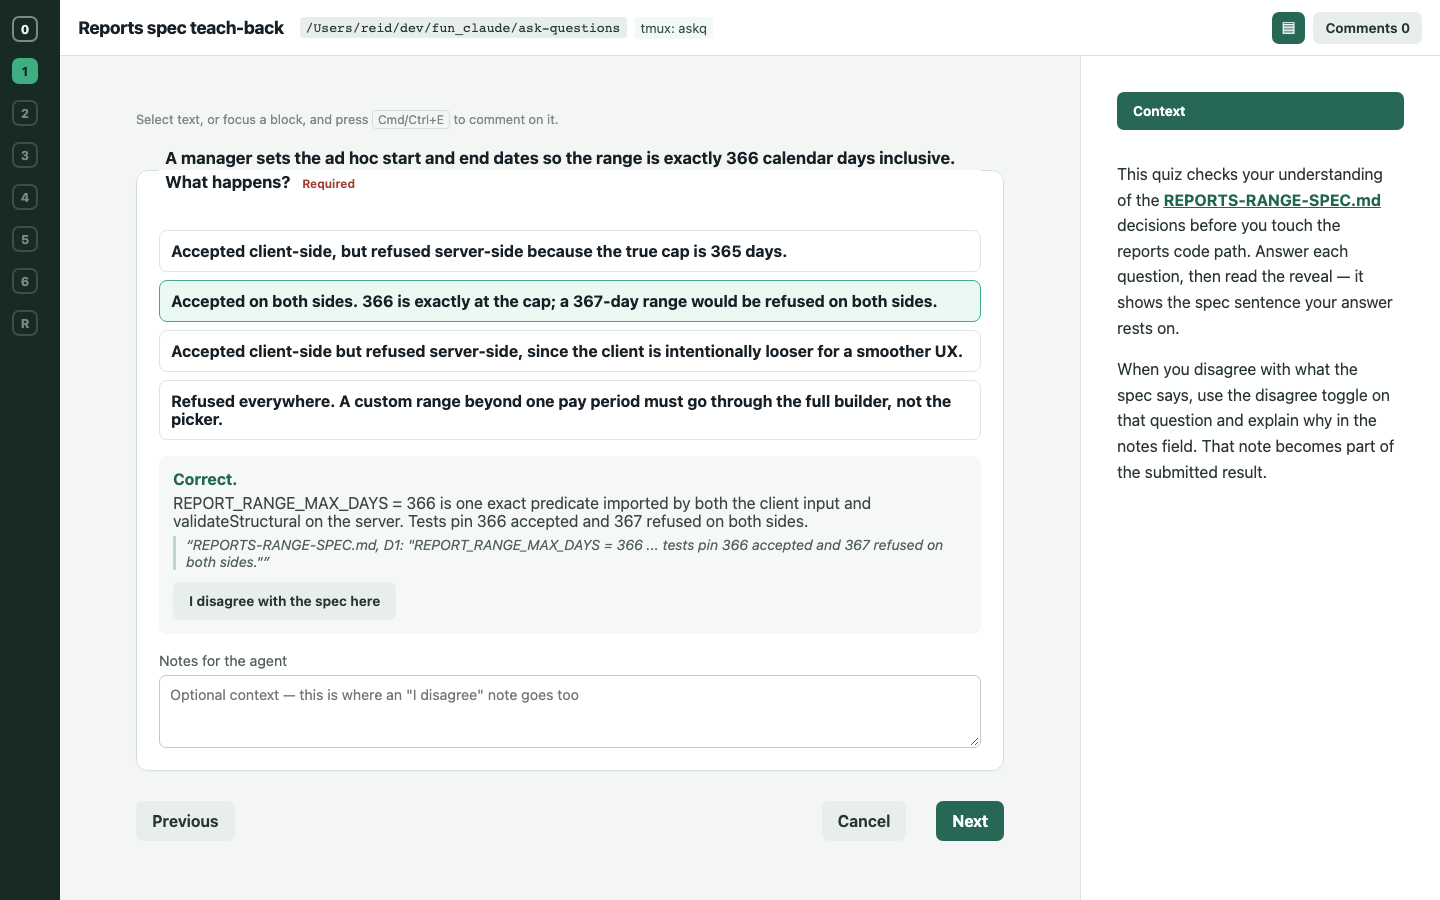
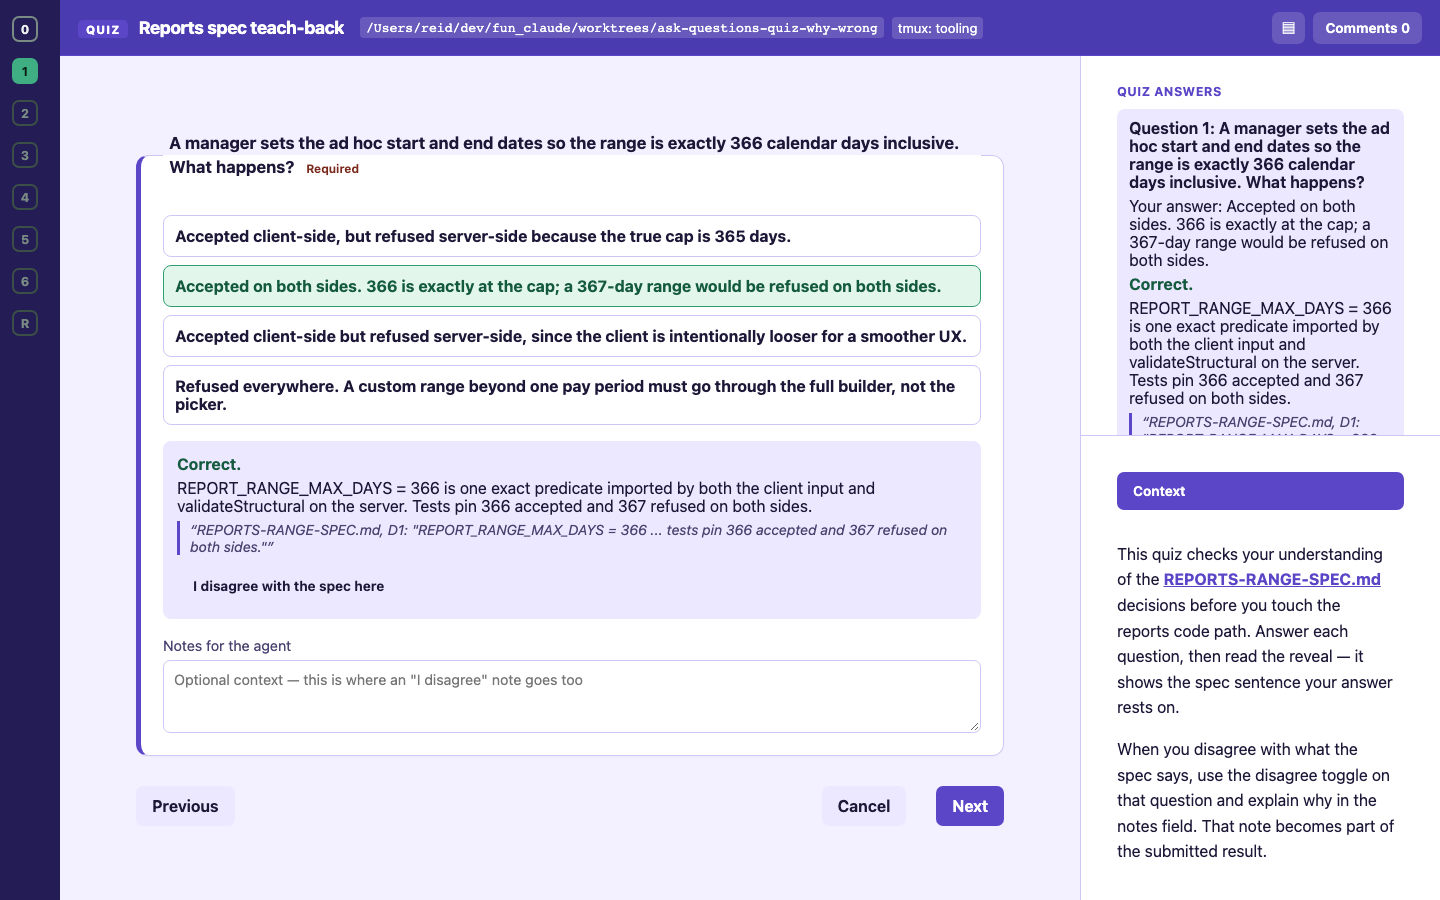
feat(quiz): every wrong option carries whyWrong; wrong picks show it; quiz forms get their own colour scheme (#11)
Each quiz option that is not the answer must now carry "whyWrong" (why this
choice is wrong compared with the right one); the answer option must not.
The validator refuses a quiz without it. After a wrong pick the form shows
that option's whyWrong before the why and cite; the review view and copied
summary list every wrong option's whyWrong for missed or disagreed questions.
A form made only of quiz questions gets a violet scheme with a QUIZ badge,
with a dark variant. Help, README, example and tests updated.

Claude-Session: https://claude.ai/code/session_01Kujo75X1zJefajDjYS5NZF

diff --git a/web/style.css b/web/style.css
@@ -190,6 +190,7 @@ button.primary { background: #276755; color: #fff; }
 .quiz-verdict { margin: 0 0 6px; font-weight: 700; }
 .quiz-verdict.correct { color: #1e6652; }
 .quiz-verdict.incorrect { color: #9d3d2d; }
+.quiz-why-wrong { margin: 6px 0; padding-left: 10px; border-left: 3px solid #d9604a; color: #7a3326; }
 .quiz-why { margin: 6px 0; color: #3a4844; }
 .quiz-cite { margin: 6px 0 0; padding-left: 10px; border-left: 3px solid #b8d8c9; color: #53625d; font-size: .88rem; font-style: italic; }
 .quiz-disagree-toggle { margin-top: 12px; background: #e8eeeb; color: #263630; font-size: .85rem; }
@@ -258,3 +259,68 @@ button.primary { background: #276755; color: #fff; }
 .diagram-source-hidden { display: none; }
 pre[data-diagram-state="failed"]::before { content: "Diagram could not be drawn. Source:"; display: block; margin-bottom: 6px; font: 600 .8rem sans-serif; color: #8a4b00; }
 .message img, .documents-pane img { max-width: 100%; height: auto; border-radius: 4px; }
+
+/* --- Quiz colour scheme --------------------------------------------------- */
+/* Applied by app.js (body.quiz-mode) only when every question is a quiz, so a quiz never looks like
+   a decision form. Light by default; the dark variant follows the system setting. Right (green) and
+   wrong (red) keep their meaning inside the scheme, and the whyWrong text has its own readable colour. */
+body.quiz-mode {
+  --q-bg: #f3f0ff; --q-card: #fff; --q-text: #1d1838; --q-muted: #4a4470; --q-border: #cfc6f5;
+  --q-accent: #5b46c8; --q-accent-text: #fff; --q-band: #4b3bb0; --q-band-text: #fff; --q-rail: #241c55;
+  --q-soft: #ece8ff; --q-reveal: #ece8ff;
+  --q-ok-bg: #e3f6ec; --q-ok-border: #2f9e6e; --q-ok-text: #145a3e;
+  --q-bad-bg: #fde8e4; --q-bad-border: #d9604a; --q-bad-text: #7a2a1d;
+  background: var(--q-bg); color: var(--q-text);
+}
+@media (prefers-color-scheme: dark) {
+  body.quiz-mode {
+    color-scheme: dark;
+    --q-bg: #151228; --q-card: #211c3f; --q-text: #ece9ff; --q-muted: #b9b2e6; --q-border: #3c3470;
+    --q-accent: #8d7bff; --q-accent-text: #120d33; --q-band: #2c2370; --q-band-text: #f1eeff; --q-rail: #0f0c20;
+    --q-soft: #2c2650; --q-reveal: #2c2650;
+    --q-ok-bg: #12372b; --q-ok-border: #4cc79a; --q-ok-text: #bff0dc;
+    --q-bad-bg: #44201c; --q-bad-border: #ff8a76; --q-bad-text: #ffd0c7;
+  }
+}
+body.quiz-mode .rail, body.quiz-mode .rail:hover .rail-items, body.quiz-mode .rail.pinned .rail-items, body.quiz-mode .rail-legend { background: var(--q-rail); }
+body.quiz-mode .app-header { background: var(--q-band); border-bottom-color: var(--q-accent); color: var(--q-band-text); }
+body.quiz-mode .app-title::before { content: "QUIZ"; margin-right: 10px; padding: 3px 8px; border-radius: 5px; background: var(--q-accent); color: var(--q-accent-text); font-size: .72rem; font-weight: 800; letter-spacing: .1em; vertical-align: middle; }
+body.quiz-mode .asker-path, body.quiz-mode .asker-tmux-window, body.quiz-mode .icon-button, body.quiz-mode .annotation-panel-toggle { background: rgb(255 255 255 / 16%); color: var(--q-band-text); }
+body.quiz-mode .question-card, body.quiz-mode .review-card { background: var(--q-card); border-color: var(--q-border); border-left: 5px solid var(--q-accent); }
+body.quiz-mode .eyebrow, body.quiz-mode .review-item h3 { color: var(--q-accent); }
+body.quiz-mode .message, body.quiz-mode .notes-label, body.quiz-mode .review-message, body.quiz-mode .review-label, body.quiz-mode .optional, body.quiz-mode .copy-status { color: var(--q-muted); }
+body.quiz-mode .message a { color: var(--q-accent); }
+body.quiz-mode .message pre, body.quiz-mode .quiz-score, body.quiz-mode .annotation-text { background: var(--q-soft); }
+body.quiz-mode .review-item { border-top-color: var(--q-border); }
+body.quiz-mode textarea { background: var(--q-card); border-color: var(--q-border); color: var(--q-text); }
+body.quiz-mode textarea:focus { border-color: var(--q-accent); outline-color: var(--q-border); }
+body.quiz-mode .quiz-option { background: var(--q-card); border-color: var(--q-border); color: var(--q-text); }
+body.quiz-mode .quiz-option:hover:not(:disabled) { border-color: var(--q-accent); background: var(--q-soft); }
+body.quiz-mode .quiz-option small { color: var(--q-muted); }
+body.quiz-mode .quiz-option.correct { border-color: var(--q-ok-border); background: var(--q-ok-bg); color: var(--q-ok-text); }
+body.quiz-mode .quiz-option.chosen-wrong { border-color: var(--q-bad-border); background: var(--q-bad-bg); color: var(--q-bad-text); }
+body.quiz-mode .quiz-reveal { background: var(--q-reveal); }
+body.quiz-mode .quiz-verdict.correct { color: var(--q-ok-text); }
+body.quiz-mode .quiz-verdict.incorrect { color: var(--q-bad-text); }
+body.quiz-mode .quiz-why-wrong { border-left-color: var(--q-bad-border); background: var(--q-bad-bg); color: var(--q-bad-text); padding: 8px 10px; border-radius: 0 6px 6px 0; }
+body.quiz-mode .quiz-why { color: var(--q-text); }
+body.quiz-mode .quiz-cite { border-left-color: var(--q-accent); color: var(--q-muted); }
+body.quiz-mode button.primary, body.quiz-mode .actions [type="submit"], body.quiz-mode #next-question { background: var(--q-accent); color: var(--q-accent-text); }
+body.quiz-mode button.secondary, body.quiz-mode .quiz-disagree-toggle { background: var(--q-soft); color: var(--q-text); }
+body.quiz-mode .quiz-disagree-toggle.active { background: #d99e2a; color: #2b2007; }
+body.quiz-mode button:focus-visible { outline-color: var(--q-accent); }
+body.quiz-mode .documents-pane { background: var(--q-card); border-left-color: var(--q-border); color: var(--q-text); }
+body.quiz-mode .quiz-log { border-bottom-color: var(--q-border); }
+body.quiz-mode .quiz-log-title { color: var(--q-accent); }
+body.quiz-mode .quiz-log-entry { background: var(--q-soft); }
+body.quiz-mode .quiz-log-heading { color: var(--q-text); }
+body.quiz-mode .quiz-log-answer, body.quiz-mode .document-content { color: var(--q-text); }
+body.quiz-mode .quiz-log-disagree { color: #d99e2a; }
+body.quiz-mode .document-list button { background: var(--q-soft); color: var(--q-text); }
+body.quiz-mode .document-list button.active { background: var(--q-accent); color: var(--q-accent-text); }
+body.quiz-mode .document-content a { color: var(--q-accent); }
+body.quiz-mode .document-content pre { background: var(--q-soft); }
+body.quiz-mode .document-content table { background: none; }
+body.quiz-mode .document-content th, body.quiz-mode .document-content td { border-color: var(--q-border); }
+body.quiz-mode .document-content th { background: var(--q-soft); color: var(--q-text); }
+body.quiz-mode .required { color: var(--q-bad-text); }

diff --git a/web/app.js b/web/app.js
@@ -42,6 +42,9 @@ const quizLogEntries = new Map();
 
 document.title = session.title || 'Questions';
 document.querySelector('#page-title').textContent = session.title || 'Questions';
+// A form made only of quiz questions gets its own colour scheme (violet, with a Quiz badge in
+// the header) so it reads at a glance as a quiz and not as a decision. Mixed forms keep the default.
+if (session.questions.length > 0 && session.questions.every((question) => question.type === 'quiz')) document.body.classList.add('quiz-mode');
 const askerPath = document.querySelector('#asker-path');
 askerPath.textContent = session.askerPath;
 askerPath.title = 'Click to copy';
@@ -134,6 +137,10 @@ function renderQuizReveal(question, reveal, notesTextarea, questionIndex) {
   const verdict = create('p', { className: `quiz-verdict ${state.correct ? 'correct' : 'incorrect'}` });
   verdict.textContent = state.correct ? 'Correct.' : `Not quite — the spec says: ${correctOption?.label ?? question.answer}.`;
   reveal.append(verdict);
+  const chosenOption = question.options.find((option) => option.value === state.value);
+  if (!state.correct && chosenOption?.whyWrong) {
+    reveal.append(create('p', { className: 'quiz-why-wrong', textContent: `Why your choice was wrong: ${chosenOption.whyWrong}` }));
+  }
   if (question.why) reveal.append(create('p', { className: 'quiz-why', textContent: question.why }));
   if (question.cite) reveal.append(create('p', { className: 'quiz-cite', textContent: `“${question.cite}”` }));
   if (question.allowDisagree !== false) {
@@ -338,9 +345,12 @@ function renderQuizScore(answers) {
       const block = create('div', { className: 'quiz-score-block' });
       block.append(create('p', { textContent: question.prompt }));
       block.append(create('p', { textContent: summaryLine }));
+      const wrongOptions = question.options.filter((option) => option.value !== question.answer && option.whyWrong);
+      const wrongLines = wrongOptions.map((option) => `Why "${option.label}" is wrong: ${option.whyWrong}`);
+      wrongLines.forEach((line) => block.append(create('p', { className: 'quiz-why-wrong', textContent: line })));
       if (notes) block.append(create('p', { textContent: `Note: ${notes}` }));
       quizScoreEl.append(block);
-      lines.push(question.prompt, summaryLine);
+      lines.push(question.prompt, summaryLine, ...wrongLines);
       if (notes) lines.push(`Note: ${notes}`);
       lines.push('');
     });
@@ -706,6 +716,7 @@ function recordQuizAnswer(question, questionIndex, state) {
     optionLabel: chosenOption?.label ?? state.value,
     correct: state.correct,
     correctLabel: correctOption?.label ?? question.answer,
+    whyWrong: state.correct ? undefined : chosenOption?.whyWrong,
     why: question.why,
     cite: question.cite,
     disagree: state.disagree,
@@ -736,6 +747,7 @@ function renderQuizLog() {
       className: `quiz-verdict ${entry.correct ? 'correct' : 'incorrect'}`,
       textContent: entry.correct ? 'Correct.' : `Not quite — the spec says: ${entry.correctLabel}.`,
     }));
+    if (entry.whyWrong) item.append(create('p', { className: 'quiz-why-wrong', textContent: `Why your choice was wrong: ${entry.whyWrong}` }));
     if (entry.why) item.append(create('p', { className: 'quiz-why', textContent: entry.why }));
     if (entry.cite) item.append(create('p', { className: 'quiz-cite', textContent: `“${entry.cite}”` }));
     if (entry.disagree) item.append(create('p', { className: 'quiz-log-disagree', textContent: 'Disagreed with the spec.' }));

diff --git a/test/contract.test.js b/test/contract.test.js
@@ -230,7 +230,7 @@ test('accepts a quiz question and normalises correct/answer/disagree', () => {
       answer: 'a',
       why: 'Because the spec says so',
       cite: 'Section 2.1',
-      options: [{ value: 'a', label: 'A' }, { value: 'b', label: 'B' }],
+      options: [{ value: 'a', label: 'A' }, { value: 'b', label: 'B', whyWrong: 'B contradicts section 2.1' }],
     }],
   };
   validatePayload(quizPayload);
@@ -265,4 +265,37 @@ test('parses --presence and --ignore-presence, and rejects --presence with a lau
   assert.deepEqual(parseArguments(['--json', '{}', '--ignore-presence']), { ...defaultParsedArguments, json: '{}', ignorePresence: true });
   assert.throws(() => parseArguments(['--presence', '--json', '{}']), ContractError);
   assert.throws(() => parseArguments(['--presence', '--open']), ContractError);
+});
+
+const wwPayload = (options, answer = 'a') => ({
+  version: 1,
+  questions: [{ id: 'quiz-1', prompt: 'Pick', type: 'quiz', answer, options }],
+});
+
+test('accepts a quiz whose wrong options all carry whyWrong and records the chosen option', () => {
+  const payload = wwPayload([{ value: 'a', label: 'A' }, { value: 'b', label: 'B', whyWrong: 'B ignores the cap.' }]);
+  validatePayload(payload);
+  const wrong = validateAnswers(payload, [{ questionId: 'quiz-1', value: 'b', notes: '', disagree: false }]);
+  assert.equal(wrong['quiz-1'].value, 'b');
+  assert.equal(wrong['quiz-1'].correct, false);
+  const right = validateAnswers(payload, [{ questionId: 'quiz-1', value: 'a', notes: '', disagree: false }]);
+  assert.equal(right['quiz-1'].value, 'a');
+  assert.equal(right['quiz-1'].correct, true);
+});
+
+test('rejects a quiz wrong option without whyWrong, saying this is what makes the quiz teach', () => {
+  const payload = wwPayload([{ value: 'a', label: 'A' }, { value: 'b', label: 'B' }, { value: 'c', label: 'C', whyWrong: '  ' }]);
+  assert.throws(() => validatePayload(payload), (error) => {
+    assert.ok(error instanceof ContractError);
+    const text = JSON.stringify(error.issues);
+    assert.match(text, /options\[1\]\.whyWrong/);
+    assert.match(text, /options\[2\]\.whyWrong/);
+    assert.match(text, /This is what makes the quiz teach/);
+    return true;
+  });
+});
+
+test('rejects whyWrong on the answer option and on non-quiz options', () => {
+  assert.throws(() => validatePayload(wwPayload([{ value: 'a', label: 'A', whyWrong: 'x' }, { value: 'b', label: 'B', whyWrong: 'y' }])), ContractError);
+  assert.throws(() => validatePayload({ version: 1, questions: [{ id: 's', prompt: 'P', type: 'single', options: [{ value: 'a', label: 'A', whyWrong: 'x' }] }] }), ContractError);
 });

diff --git a/lib/contract.js b/lib/contract.js
@@ -71,6 +71,7 @@ export function validatePayload(payload) {
           string(option.value, `${optionPrefix}.value`, issues);
           string(option.label, `${optionPrefix}.label`, issues);
           if (option.description !== undefined) string(option.description, `${optionPrefix}.description`, issues, { required: false });
+          if (question.type !== 'quiz' && option.whyWrong !== undefined) issue(issues, `${optionPrefix}.whyWrong`, 'is only valid for quiz options');
           if (values.has(option.value)) issue(issues, `${optionPrefix}.value`, 'must be unique within this question');
           values.add(option.value);
         });
@@ -84,6 +85,19 @@ export function validatePayload(payload) {
         if (typeof question.answer === 'string' && Array.isArray(question.options)) {
           const optionValues = new Set(question.options.map((option) => option.value));
           if (!optionValues.has(question.answer)) issue(issues, `${prefix}.answer`, 'must equal one of this question\'s option values');
+        }
+        // Every wrong option explains why it is wrong compared with the right one, so the
+        // quiz teaches instead of only scoring. The answer option never carries it.
+        if (typeof question.answer === 'string' && Array.isArray(question.options)) {
+          question.options.forEach((option, optionIndex) => {
+            if (!isObject(option)) return;
+            const whyWrongPath = `${prefix}.options[${optionIndex}].whyWrong`;
+            if (option.value === question.answer) {
+              if (option.whyWrong !== undefined) issue(issues, whyWrongPath, 'must not be set on the answer option; put the explanation of the right answer in why');
+            } else if (typeof option.whyWrong !== 'string' || option.whyWrong.trim() === '') {
+              issue(issues, whyWrongPath, 'is required on every wrong quiz option: say why this choice is wrong compared with the right one. This is what makes the quiz teach');
+            }
+          });
         }
       } else if (question.answer !== undefined || question.why !== undefined || question.cite !== undefined || question.allowDisagree !== undefined) {
         issue(issues, prefix, 'answer, why, cite, and allowDisagree are only valid for quiz questions');

diff --git a/test/cli.test.js b/test/cli.test.js
@@ -78,6 +78,8 @@ test('help is a self-sufficient agent contract', async () => {
       '"message": "optional non-empty Markdown string"',
       '"type": "single" | "multiple" | "text" | "quiz"',
       '"allowOther": true | false,                // optional; single/multiple only; defaults to true. Set false to turn Other off. Invalid on quiz.',
+      '"whyWrong": "string"',
+      'REQUIRED on every option that is not the answer',
       '"answer": "option value",                 // quiz only; required; must equal one of this question\'s option values',
       '"score":{"right":N,"wrong":N,"disagree":N,"total":N}',
       'Single and multiple-choice questions show an Other free-text option by default.',
@@ -614,6 +616,13 @@ test('interface source keeps rail navigation, safe review rendering, and Other i
   assert.match(app, /quizState\.set\(question\.id/);
   assert.match(app, /I disagree with the spec here/);
   assert.match(app, /function renderQuizScore\(/);
+  assert.match(app, /every\(\(question\) => question\.type === 'quiz'\)\) document\.body\.classList\.add\('quiz-mode'\)/);
+  const css = await readFile(new URL('../web/style.css', import.meta.url), 'utf8');
+  assert.match(css, /body\.quiz-mode \.app-header/);
+  assert.match(css, /@media \(prefers-color-scheme: dark\) \{\s*body\.quiz-mode/);
+  assert.match(css, /body\.quiz-mode \.quiz-why-wrong/);
+  assert.match(app, /Why your choice was wrong: \$\{chosenOption\.whyWrong\}/);
+  assert.match(app, /is wrong: \$\{option\.whyWrong\}/);
   assert.match(app, /correct: value === question\.answer, answer: question\.answer, disagree: disagree \?\? false/);
 
   // Quiz log: every reveal (initial answer and disagree toggle) is also

diff --git a/bin/ask-questions.js b/bin/ask-questions.js
@@ -131,12 +131,13 @@ Payload schema (version must be 1):
         "options": [{                              // required for single, multiple, and quiz
           "value": "unique non-empty string",
           "label": "non-empty string",
-          "description": "optional string"
+          "description": "optional string",
+          "whyWrong": "string"                     // quiz only; REQUIRED on every option that is not the answer: why this choice is wrong compared with the right one. Forbidden on the answer option. This is what makes the quiz teach.
         }],
         "allowOther": true | false,                // optional; single/multiple only; defaults to true. Set false to turn Other off. Invalid on quiz.
         "placeholder": "optional string",         // optional; text and Other inputs
         "answer": "option value",                 // quiz only; required; must equal one of this question's option values
-        "why": "optional string",                 // quiz only; shown after the person answers
+        "why": "optional string",                 // quiz only; shown after the person answers (why the answer is right). A wrong pick also sees that option's whyWrong first
         "cite": "optional string",                // quiz only; shown after the person answers, as the spec sentence the answer rests on
         "allowDisagree": true | false             // quiz only; optional, defaults to true; shows an "I disagree with the spec here" toggle
       }

diff --git a/README.md b/README.md
@@ -121,6 +121,27 @@ flowchart LR
 - **Inline SVG.** An `svg` fenced block is sanitised on the server (scripts, event handlers, `foreignObject`, `style`, animation and external references are removed; only references to `#ids` inside the same SVG survive) and drawn as an image, using `sanitize-html`.
 - **Image files.** `![alt](relative/path.png)` resolves against the payload file's directory for `--file`, or the current directory for `--json`/stdin, like document paths. Only png, jpg, jpeg, gif, webp and svg files are served, only the ones the payload references, and only from inside that directory. A path that leaves it (`..` or a symbolic link), a missing file, or another file type stops the launch with an error. Remote `http(s)` images are left as written.
 
+## Quiz questions
+
+A `"type": "quiz"` question checks understanding. It takes `options`, an `"answer"` (one option value), and optional `"why"`, `"cite"` and `"allowDisagree"`.
+
+Every option that is not the answer must carry `"whyWrong"`: a sentence on why that choice is wrong compared with the right one. The answer option must not carry it. The payload is refused otherwise, because `whyWrong` is what makes the quiz teach instead of only scoring. The field is camelCase, like `allowDisagree`.
+
+```json
+{
+  "id": "range-cap", "type": "quiz", "prompt": "A range is exactly 366 days. What happens?",
+  "options": [
+    { "value": "a", "label": "Refused server-side.", "whyWrong": "The cap is 366, and both sides share one predicate, so 366 passes." },
+    { "value": "b", "label": "Accepted on both sides." }
+  ],
+  "answer": "b",
+  "why": "One shared constant caps both sides at 366.",
+  "cite": "REPORTS-RANGE-SPEC.md, D1"
+}
+```
+
+After the person picks an option, the form shows the verdict. A wrong pick shows that option's `whyWrong` first, then the `why` and `cite` for the right answer. The review screen lists the `whyWrong` of every wrong option for each question that was missed or disagreed with, and the copied quiz summary carries the same lines. The saved answer for each quiz question records `value` (the option chosen), `correct` (true or false), `answer` and `disagree`. See `examples/quiz.json`.
+
 ## Durable answers
 
 Every submitted result is also written to its own file, so a caller's own stdout redirect is never the only copy of an answer. On submit, before printing to stdout, the command writes the full result to `~/.ask-questions/answers/<timestamp>-<answersId>.json`, atomically (a temp file written first, then renamed into place). The result's `answersId` and `answersFile` fields, and a matching line on stderr, all point at the same file. Cancelled sessions are not saved.
